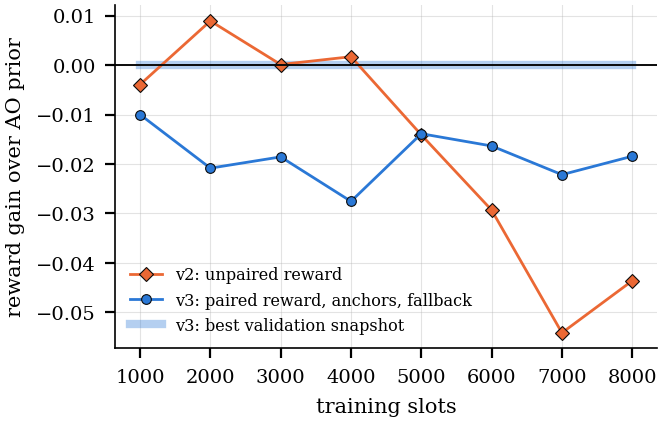
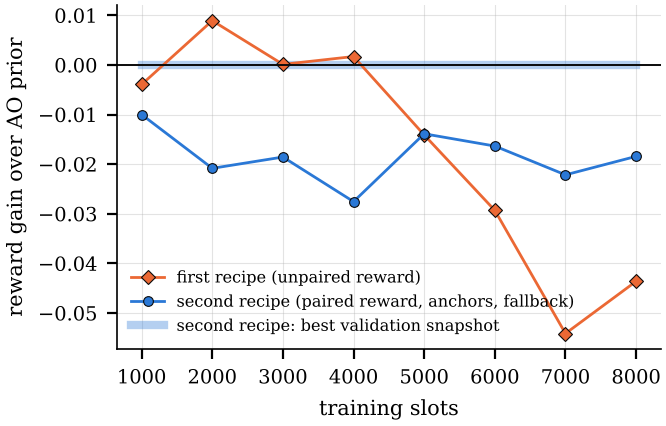
New conclusion; remove appendix; place residual-SAC figure in Sec. IV-E with explanation, relabel legend, float barrier before Conclusion
Claude-Session: https://claude.ai/code/session_01YV24zFPYB82r3aHhSy3N98

diff --git a/paper/main.tex b/paper/main.tex
@@ -257,8 +257,16 @@ Under greedy AoI with travel, the nominal decode-aware solver lowers average AoI
 
 \subsection{Learned components: negative results}
 \label{sec:negative}
-\paragraph*{Residual SAC.} A first recipe with an unpaired reward made the policy worse than its own physics prior (47\% against 75\% decode in the mismatch study, including at $s=0$). A second recipe uses a paired reward (reward of the residual action minus that of the prior on the same channel and CSI), zero-residual anchor samples, an $\ell_2$ penalty and a fixed entropy weight, and keeps the snapshot with the best validation gain, with the zero-residual policy as fallback. After 8000 training slots at $s=1$ no checkpoint beat the prior: the final policy is $0.044$ (first recipe) and $0.018$ (second recipe) reward units below it, and the best validation snapshot has gain $0.000$, so the learned policy reduces to the AO solution (training curves in Appendix~\ref{app:residual}, Fig.~\ref{fig:residual}). Given the headroom analysis, the room left for a policy that sees only the CSI estimate is small: the remaining gap to 45-probe search is mostly noise in the individual slot's estimate.
+\paragraph*{Residual SAC.} A first recipe with an unpaired reward made the policy worse than its own physics prior (47\% against 75\% decode in the mismatch study, including at $s=0$). A second recipe uses a paired reward (reward of the residual action minus that of the prior on the same channel and CSI), zero-residual anchor samples, an $\ell_2$ penalty and a fixed entropy weight, and keeps the snapshot with the best validation gain, with the zero-residual policy as fallback. After 8000 training slots at $s=1$ the second recipe never beat the prior on validation: the final policies are $0.044$ (first recipe) and $0.018$ (second recipe) reward units below it, and the best validation snapshot has gain $0.000$, so the learned policy reduces to the AO solution (training curves in Fig.~\ref{fig:residual}). Given the headroom analysis, the room left for a policy that sees only the CSI estimate is small: the remaining gap to 45-probe search is mostly noise in the individual slot's estimate.
 
+Fig.~\ref{fig:residual} plots the reward gain of the learned policy over its own AO prior on fresh slots during training. The first recipe rises above the prior briefly, at 2000 and 4000 slots, and then degrades; the second recipe stays below the prior throughout, and its best-validation fallback never moves from zero. Each curve is a single training run, so the figure supports the claim that these recipes did not help in this environment, not that no learned residual could.
+
+\begin{figure}[!tb]
+\centering
+\includegraphics[width=\columnwidth]{figures/fig_residual.pdf}
+\caption{Training curves of the learned residual SAC policy relative to its AO prior (one training run per recipe). The first recipe (unpaired reward) rises briefly above the prior, then falls below it; the second recipe (paired reward, anchors, fallback) stays below it, and its best-validation snapshot never exceeds it.}
+\label{fig:residual}
+\end{figure}
 
 \paragraph*{PPO scheduler.} The hybrid-action PPO scheduler trained on a pool of layouts reached an average AoI of $27.6\pm25.1$ on held-out layouts against $11.6\pm3.4$ for greedy AoI with travel (same low level, 5 seeds), so we make no claim for learned scheduling in this environment. We did not tune it exhaustively, and the result applies to this heuristic-friendly setting, in which a one-cluster-per-step AoI problem is close to solved by greedy rules.
 
@@ -297,26 +305,19 @@ A grid optimum found on the same seeds that produced it is not evidence, so we r
 \label{fig:tau}
 \end{figure*}
 
-\FloatBarrier
 \subsection{Limitations and threats to validity}
 \label{sec:limits}
 Results come from simulation with a synthetic hardware-mismatch model and a Rician/LoS channel; no ray-traced or measured channels are used. All parameter sweeps are one-at-a-time, and the number of seeds is five in most studies (20 in the headline and width studies), so intervals there are wide. The headline decode-aware numbers in the headroom, calibration, sweep and episode studies use the initial sigmoid width $0.2R_{\min}$, which Section~\ref{sec:robust} shows is far from the best choice, so those gains are conservative; only the probing-budget and regime comparisons were repeated with the tuned width. Decode-aware AO fails with very coarse (1-bit) phase control and when the CSI error power approaches the channel power. Pilot overhead and RIS switching time are not modeled. The episode study uses two heuristic schedulers and no learned scheduler. The residual policy was trained for one hardware instance per seed and on one seed in the final recipe; a stronger or differently structured learner could behave differently.
 
+\FloatBarrier
 \section{Conclusion}
 \label{sec:conclusion}
-On an audited UAV-RIS data-collection benchmark, the largest controllable losses in decode rate came from the optimization objective and from ignoring the PDA hardware, not from a lack of learning. A decode-aware alternating optimization with no extra measurements improves decode rate in every setting we tried, is confirmed on held-out seeds (and roughly doubles with a wider sigmoid chosen on the design seeds), and lowers AoI by about 14\% under a good scheduler; it needs at least 3-bit phase control and a CSI estimate better than the channel itself. Hardware mismatch is a second-order effect that a rough calibration removes, and per-slot probing adds the most at high power. A learned residual policy and a PPO scheduler did not beat these baselines. We recommend that future RIS-DRL claims be reported against such baselines, with paired statistics over seeds and held-out layouts. Code, configurations and the curated result files are released with the repository.
 
-\appendices
-\section{Residual SAC training curves}
-\label{app:residual}
-Fig.~\ref{fig:residual} shows the reward of the learned residual policy minus that of its own AO prior on fresh slots during training, for the two recipes described in Section~\ref{sec:negative}.
+This paper presented an audited simulation benchmark for UAV-mounted RIS-assisted IoT data collection under practical PDA characteristics, hardware mismatch, and imperfect cascaded CSI. The results demonstrate that the optimization objective is a major determinant of decoding performance. The proposed decode-aware AO method consistently outperformed conventional max-min AO without requiring additional measurements, achieving a decoding-rate improvement of $7.2\pm1.3$ percentage points on held-out seeds at the default mismatch level. With a wider sigmoid selected using exploratory seeds, the improvement increased to $15.2\pm1.5$ percentage points. At the network level, decode-aware AO also reduced average AoI by approximately 14\% under the greedy scheduler with travel.
 
-\begin{figure}[!tb]
-\centering
-\includegraphics[width=\columnwidth]{figures/fig_residual.pdf}
-\caption{Training curves of the learned residual SAC policy relative to its AO prior: the first recipe falls below the prior; the final recipe with the best-validation fallback never exceeds it.}
-\label{fig:residual}
-\end{figure}
+The findings further indicate that realistic hardware mismatch has a comparatively modest impact, whereas inaccurate CSI and coarse RIS phase resolution can substantially limit optimization performance. Measurement-based probing provides additional gains under suitable operating conditions, while the evaluated SAC and PPO methods did not outperform their model-based and heuristic baselines. These results highlight the importance of decoding-oriented objectives and rigorous baseline comparisons when evaluating learning-based UAV-RIS optimization.
+
+Future work will investigate measured hardware and channel models, pilot and RIS switching overhead, and more comprehensive joint optimization of RIS configuration and UAV scheduling to assess practical performance under realistic deployment conditions.
 
 \bibliographystyle{IEEEtran}
 \bibliography{references}

diff --git a/paper/make_figures.py b/paper/make_figures.py
@@ -716,7 +716,7 @@ def fig_residual(data, out):
         return print('  skip fig_residual (history missing)')
     fig, ax = plt.subplots(figsize=(3.5, 2.3))
     rows_csv = []
-    for h, lab, col, mk in ((h2, 'v2: unpaired reward', ORANGE, 'D'), (h3, 'v3: paired reward, anchors, fallback', BLUE, 'o')):
+    for h, lab, col, mk in ((h2, 'first recipe (unpaired reward)', ORANGE, 'D'), (h3, 'second recipe (paired reward, anchors, fallback)', BLUE, 'o')):
         x = [e['slots'] for e in h]; g = [e['policy_reward'] - e['prior_reward'] for e in h]
         for e in h:
             if 'gain' in e:
@@ -724,7 +724,7 @@ def fig_residual(data, out):
         ax.plot(x, g, mk + '-', ms=3.5, lw=1.0, color=col, mec=INK, mew=0.4, label=lab)
         rows_csv += [[lab, a, b] for a, b in zip(x, g)]
     b3 = [e.get('best_gain', 0.0) for e in h3]
-    ax.step([e['slots'] for e in h3], b3, where='post', color=BLUE, lw=3.0, alpha=0.35, label='v3: best validation snapshot', zorder=1)
+    ax.step([e['slots'] for e in h3], b3, where='post', color=BLUE, lw=3.0, alpha=0.35, label='second recipe: best validation snapshot', zorder=1)
     invariant('v3 best-snapshot gain is never negative (zero-residual fallback)', min(b3) >= 0.0, f'min={min(b3)}')
     ax.axhline(0, color=INK, lw=0.7)
     ax.set_xlabel('training slots'); ax.set_ylabel('reward gain over AO prior')
